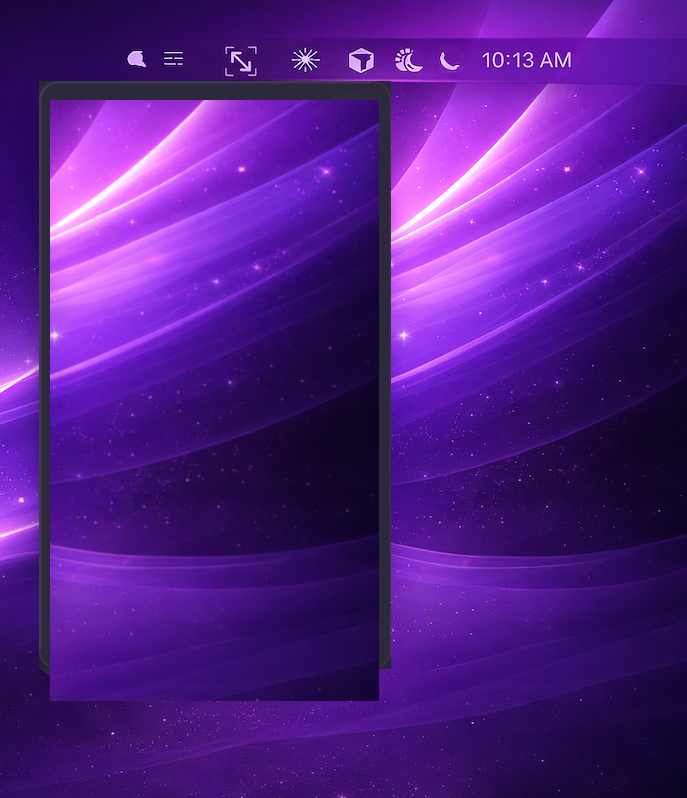
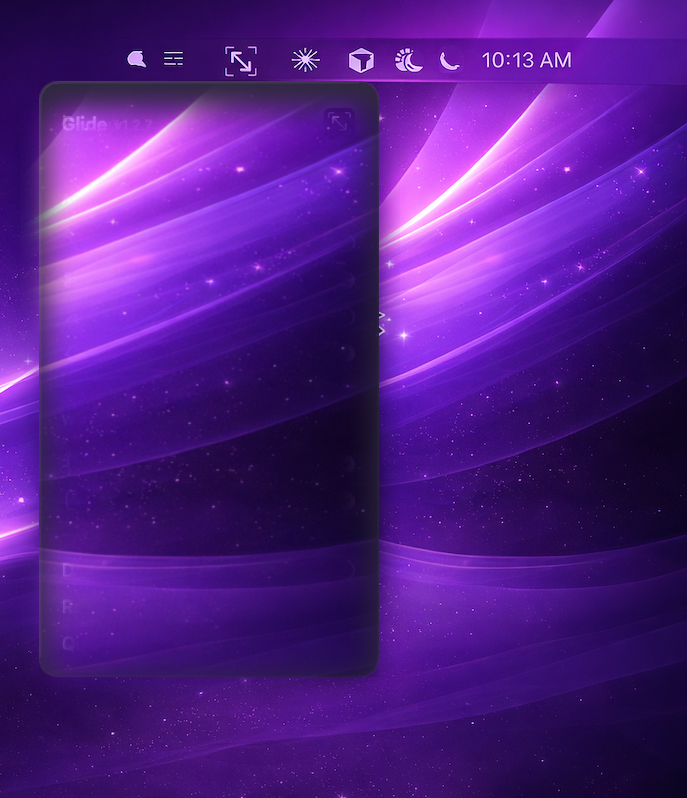
Rebuild menubar composite with correct card geometry
The card bounds in the layout were wrong (50,100,329,550); the real captured
card occupies 40,82..380,678. The mismatch meant the wallpaper fill missed the
card's true edges, leaving a dark card-colored frame (the 'double card'), and
the pasted dropdown landed misaligned.

- Measure and use the true card footprint (x40,y82,w340,h596, radius 13)
- Clear the full old card+shadow region and feather the wallpaper fill so the
  diagonal-gradient sample blends without a rectangular seam
- Synthesize a soft drop shadow under the pasted card
- Commit site/menubar-source.png as the clean capture used to rebuild the base
- composite_menubar now scales the rendered dropdown to the exact card size so
  any future dropdown change flows straight into menubar.png

diff --git a/scripts/prepare-menubar-base.py b/scripts/prepare-menubar-base.py
@@ -5,7 +5,7 @@ from __future__ import annotations
 import json
 from pathlib import Path
 
-from PIL import Image, ImageFilter
+from PIL import Image, ImageDraw, ImageFilter
 
 ROOT = Path(__file__).resolve().parents[1]
 LAYOUT = ROOT / "scripts" / "screenshot-layout.json"
@@ -14,44 +14,54 @@ DEFAULT_SOURCE = ROOT / "site/menubar-source.png"
 
 def prepare_menubar_base(source: Path, output: Path) -> None:
     layout = json.loads(LAYOUT.read_text(encoding="utf-8"))
-    card = layout["menubar"]["card"]
-    x = int(card["x"])
-    y = int(card["y"])
-    w = int(card["width"])
-    h = int(card["height"])
-    scale_factor = float(card.get("scale", 1.0))
-    shadow_margin = int(card.get("shadow_margin", 32))
+    menubar = layout["menubar"]
+    clear = menubar.get("clear", menubar["card"])
+    x = int(clear["x"])
+    y = int(clear["y"])
+    w = int(clear["width"])
+    h = int(clear["height"])
 
-    # Extend the cleared region below the card so scaled dropdown overflow and any
-    # captured menu shadow do not leave stale menu pixels under anti-aliased corners.
-    dropdown = ROOT / "site/drop-down.png"
-    if dropdown.exists():
-        sample = Image.open(dropdown)
-        fit_scale = min(w / sample.width, h / sample.height)
-        scaled_h = int(round(sample.height * fit_scale * scale_factor))
-        overflow_bottom = max(0, (scaled_h - h + 1) // 2)
-    else:
-        overflow_bottom = max(0, int(round(h * (scale_factor - 1.0) / 2)))
-
-    fill_h = h + overflow_bottom + shadow_margin
+    feather = int(clear.get("feather", 28))
 
     image = Image.open(source).convert("RGBA")
-    wallpaper = image.crop((400, y, image.width, y + fill_h))
-    fill = wallpaper.resize((w, fill_h), Image.Resampling.LANCZOS).filter(ImageFilter.GaussianBlur(radius=0.8))
-    image.paste(fill, (x, y))
+
+    # Sample clean wallpaper from the right side of the capture (no menu card there)
+    # and stretch it over the entire old card + shadow footprint so nothing of the
+    # previous menu (border, body, or drop shadow) survives in the base.
+    sample_left = min(image.width - 1, x + w + 2)
+    wallpaper = image.crop((sample_left, y, image.width, y + h))
+    fill = wallpaper.resize((w, h), Image.Resampling.LANCZOS).filter(ImageFilter.GaussianBlur(radius=0.8))
+
+    # Feather the fill into the surrounding wallpaper. The diagonal gradient means a
+    # right-side sample never matches the left edge exactly, so a hard paste leaves a
+    # visible rectangular seam. A blurred mask blends the edges smoothly; the centre
+    # (which the menu card covers) stays fully opaque.
+    mask = Image.new("L", (w, h), 0)
+    ImageDraw.Draw(mask).rectangle([feather, feather, w - feather, h - feather], fill=255)
+    mask = mask.filter(ImageFilter.GaussianBlur(radius=feather / 2))
+    image.paste(fill, (x, y), mask)
     output.parent.mkdir(parents=True, exist_ok=True)
     image.save(output)
-    print(f"Wrote {output}")
+    print(f"Wrote {output} (cleared {w}x{h} at {x},{y}, feather {feather})")
 
 
 def main() -> None:
-    source = DEFAULT_SOURCE if DEFAULT_SOURCE.exists() else ROOT / "site/menubar.png"
-    if not source.exists():
+    layout = json.loads(LAYOUT.read_text(encoding="utf-8"))
+    menubar = layout["menubar"]
+    configured = menubar.get("source")
+    candidates = [
+        ROOT / configured if configured else None,
+        DEFAULT_SOURCE,
+        ROOT / "site/menubar.png",
+    ]
+    source = next((c for c in candidates if c and c.exists()), None)
+    if source is None:
         raise SystemExit(
-            "No menubar source image found. Save a desktop capture as site/menubar-source.png "
-            "before regenerating site/menubar-base.png."
+            "No menubar source image found. Save a clean desktop capture (menu bar + "
+            "wallpaper, with a menu card whose right side is clear wallpaper) as "
+            "site/menubar-source.png before regenerating site/menubar-base.png."
         )
-    prepare_menubar_base(source, ROOT / "site/menubar-base.png")
+    prepare_menubar_base(source, ROOT / menubar["base"])
 
 
 if __name__ == "__main__":

diff --git a/scripts/patch-screenshot-version.py b/scripts/patch-screenshot-version.py
@@ -6,7 +6,7 @@ import json
 import sys
 from pathlib import Path
 
-from PIL import Image, ImageDraw, ImageFont
+from PIL import Image, ImageDraw, ImageFilter, ImageFont
 
 ROOT = Path(__file__).resolve().parents[1]
 LAYOUT = ROOT / "scripts" / "screenshot-layout.json"
@@ -107,45 +107,36 @@ def composite_menubar(dropdown: Path, output: Path) -> None:
     card_y = int(card["y"])
     card_w = int(card["width"])
     card_h = int(card["height"])
-    scale_factor = float(card.get("scale", 1.0))
-    anchor = str(card.get("anchor", "center"))
-    anchor_offset_y = int(card.get("anchor_offset_y", 0))
+    radius = int(card.get("radius", 13))
+    shadow = menubar.get("shadow", {})
+
     overlay = Image.open(dropdown).convert("RGBA")
     canvas = Image.open(base).convert("RGBA")
 
-    # Scale uniformly so the menu keeps its aspect ratio, then paste with alpha so
-    # rounded corners blend with the wallpaper sampled into menubar-base.
-    fit_scale = min(card_w / overlay.width, card_h / overlay.height)
-    scale = fit_scale * scale_factor
-    scaled_w = max(1, int(round(overlay.width * scale)))
-    scaled_h = max(1, int(round(overlay.height * scale)))
+    # Scale the rendered dropdown to exactly fill the card footprint measured from
+    # the real capture, then paste with alpha so rounded corners reveal the clean
+    # wallpaper already painted into the base.
+    scaled = overlay.resize((card_w, card_h), Image.Resampling.LANCZOS)
 
-    if anchor == "top":
-        paste_y = card_y + anchor_offset_y
-        max_scaled_h = card_y + card_h - paste_y
-        if scaled_h > max_scaled_h:
-            scale = max_scaled_h / overlay.height
-            scaled_w = max(1, int(round(overlay.width * scale)))
-            scaled_h = max(1, int(round(overlay.height * scale)))
-    elif anchor == "bottom":
-        paste_y = card_y + card_h - scaled_h
-    elif anchor == "center":
-        paste_y = card_y - (scaled_h - card_h) // 2
-        overflow_bottom = paste_y + scaled_h - (card_y + card_h)
-        if overflow_bottom > 0:
-            scale = (card_h + (scaled_h - card_h) // 2) / overlay.height
-            scaled_w = max(1, int(round(overlay.width * scale)))
-            scaled_h = max(1, int(round(overlay.height * scale)))
-            paste_y = card_y - (scaled_h - card_h) // 2
-    else:
-        raise ValueError(f"Unknown menubar anchor: {anchor}")
+    # Synthesize a soft drop shadow so the pasted card sits naturally on the desktop.
+    if shadow:
+        dx = int(shadow.get("dx", 0))
+        dy = int(shadow.get("dy", 7))
+        blur = float(shadow.get("blur", 14))
+        opacity = int(shadow.get("opacity", 95))
+        shadow_layer = Image.new("RGBA", canvas.size, (0, 0, 0, 0))
+        sdraw = ImageDraw.Draw(shadow_layer)
+        sdraw.rounded_rectangle(
+            [card_x + dx, card_y + dy, card_x + dx + card_w, card_y + dy + card_h],
+            radius=radius,
+            fill=(0, 0, 0, opacity),
+        )
+        shadow_layer = shadow_layer.filter(ImageFilter.GaussianBlur(radius=blur))
+        canvas = Image.alpha_composite(canvas, shadow_layer)
 
-    scaled = overlay.resize((scaled_w, scaled_h), Image.Resampling.LANCZOS)
-    paste_x = card_x - (scaled_w - card_w) // 2
-
-    canvas.paste(scaled, (paste_x, paste_y), scaled)
+    canvas.paste(scaled, (card_x, card_y), scaled)
     canvas.save(output)
-    print(f"Composited {output}")
+    print(f"Composited {output} (card {card_w}x{card_h} at {card_x},{card_y})")
 
 
 def main() -> None:
